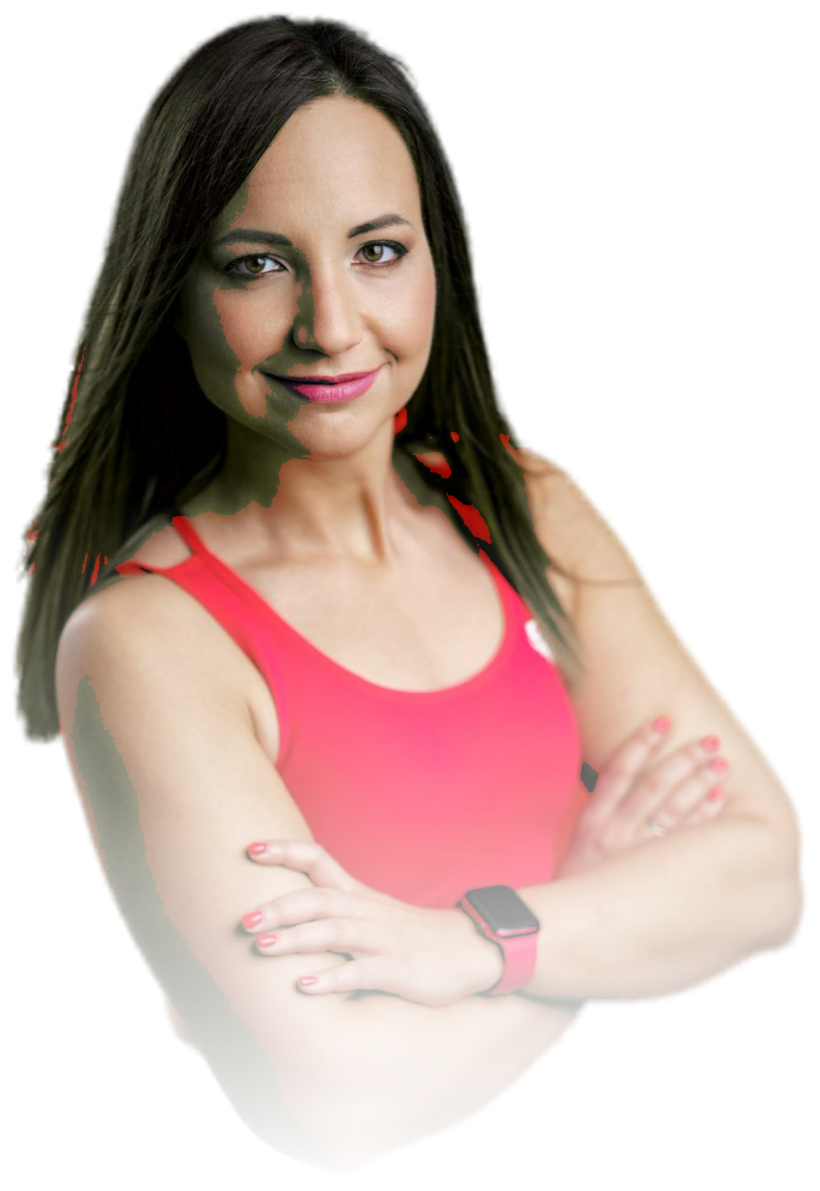
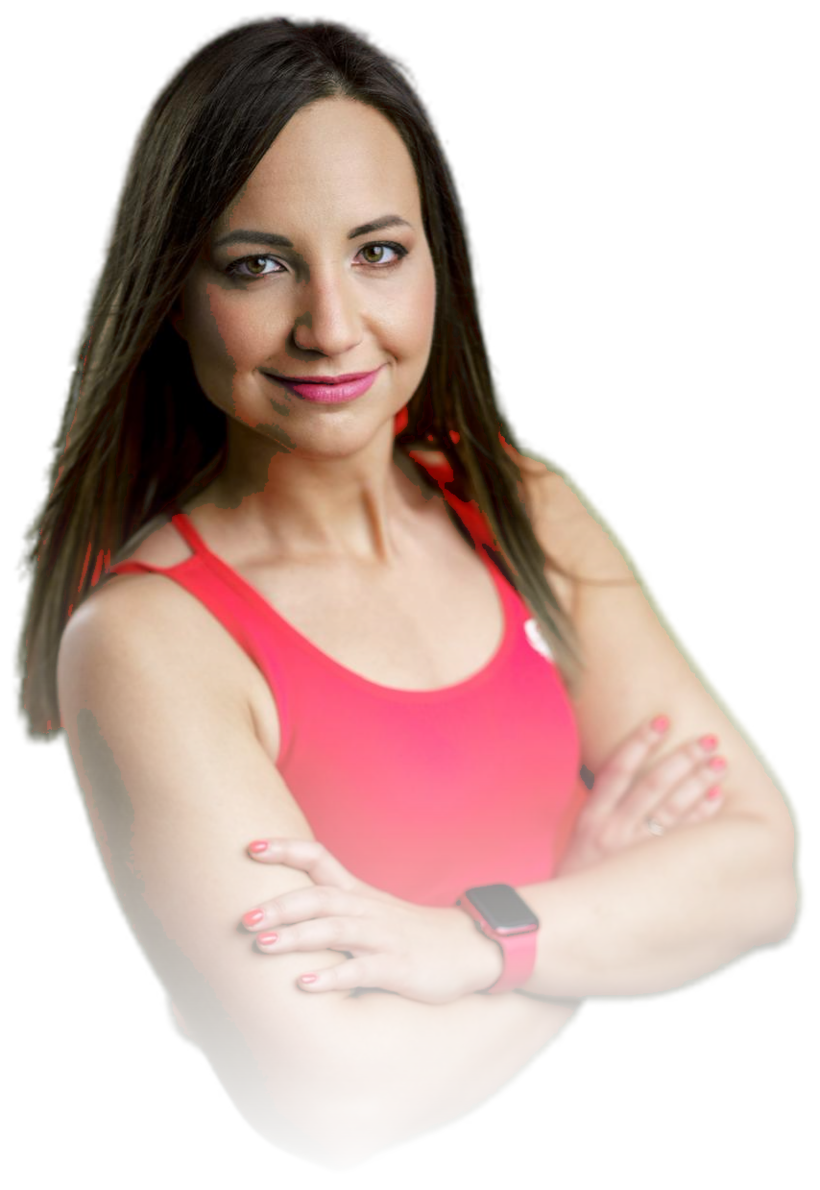
Hero kép: vissza a v13 alapra + célzott, gyengébb haj-pull
Az előző (v14) interior despill túl agresszív volt, a teljes kép
színe (bőr, ruha tónus) eltolódott.

Új pipeline:
- v13 alapelv: rembg isnet erős erodálással + edge-only despill
  (alfa-átmeneti sávban R clamp max(G,B)-re), nincs G/B lift
- ÚJ: nagyon szűk hair maszk (V=40..118, R>G+10, R<175, csak teljesen
  átlátszatlan pixelek) + PARTIAL pull: a piros többlet 60%-a
  eltávolítva, 40% megmarad -> természetes barna hajtónus,
  nem olajzöld/szürke
- A bőr (V>120), a piros ruha/ajak/körömlakk és minden más szín
  érintetlen
- ASSET_V/IMG_V -> 15

diff --git a/app/(public)/layout.tsx b/app/(public)/layout.tsx
@@ -4,7 +4,7 @@ import ScrollTop from "@/components/bodyshape/ScrollTop";
 
 // Bump on every CSS/asset change — busts browser/proxy cache of the
 // fixed-URL static stylesheets (otherwise mobile keeps the stale CSS).
-export const ASSET_V = "14";
+export const ASSET_V = "15";
 
 export default function PublicLayout({
   children,

diff --git a/components/bodyshape/theme.tsx b/components/bodyshape/theme.tsx
@@ -2,7 +2,7 @@
 import { FooterMap } from "./FooterMap";
 
 // Custom eVitality images change content under the same filename; bust cache.
-const IMG_V = "14";
+const IMG_V = "15";
 const img = (p: string) =>
   p.startsWith("evitality/")
     ? `/assets/images/${p}?v=${IMG_V}`
